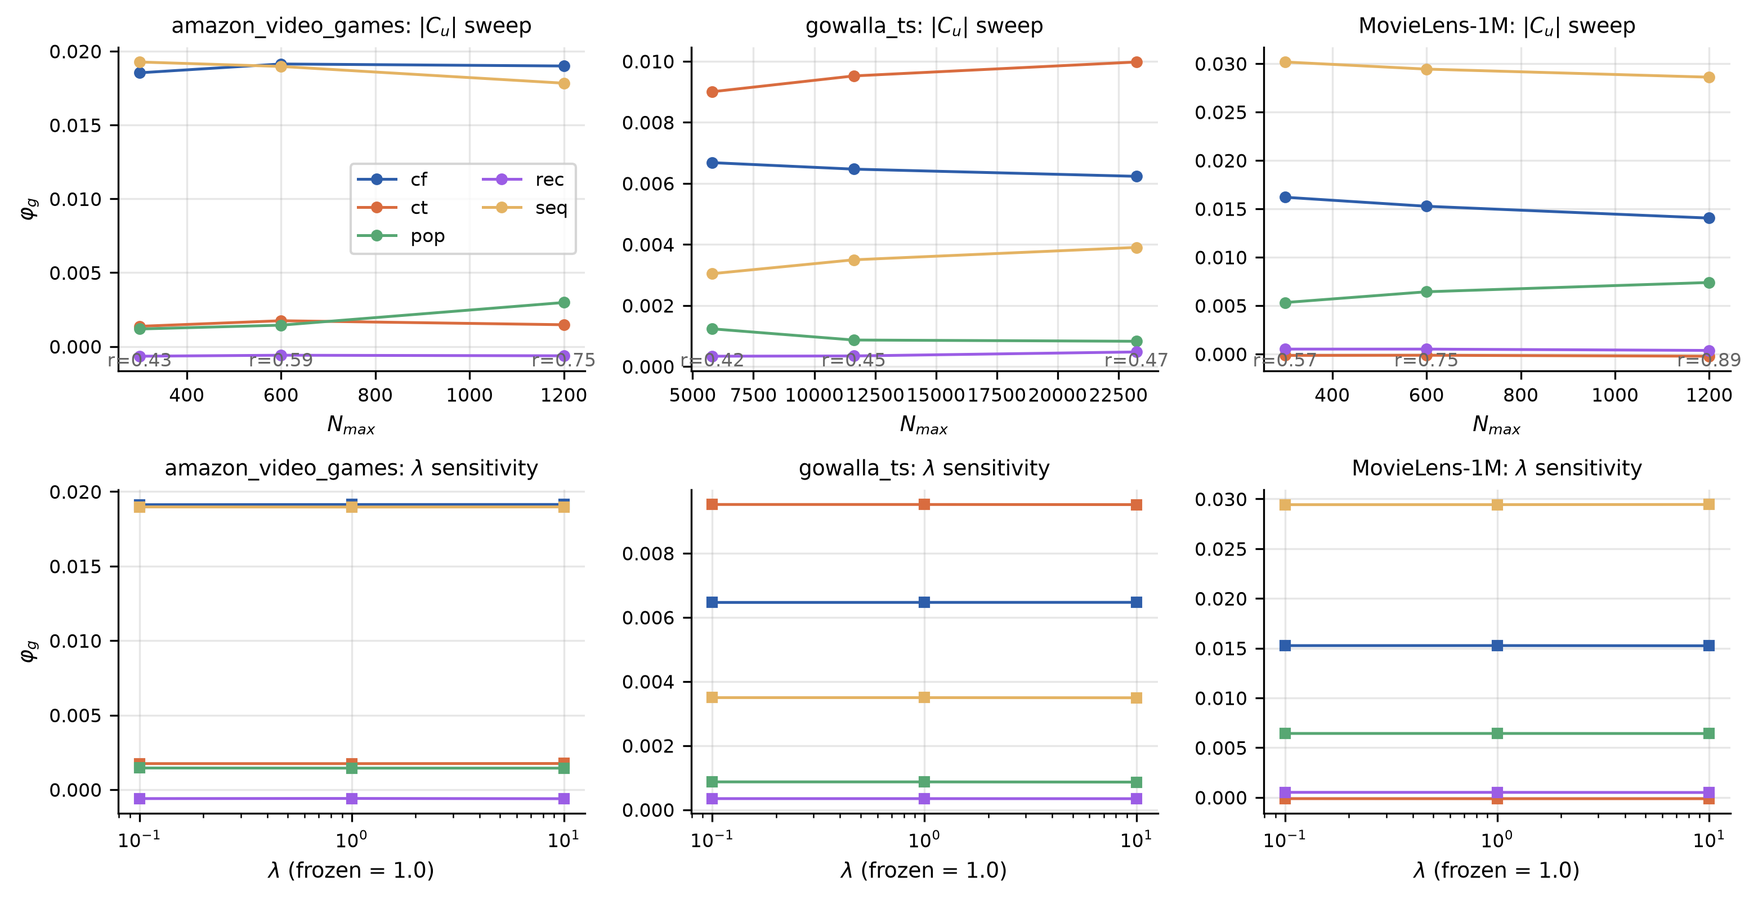
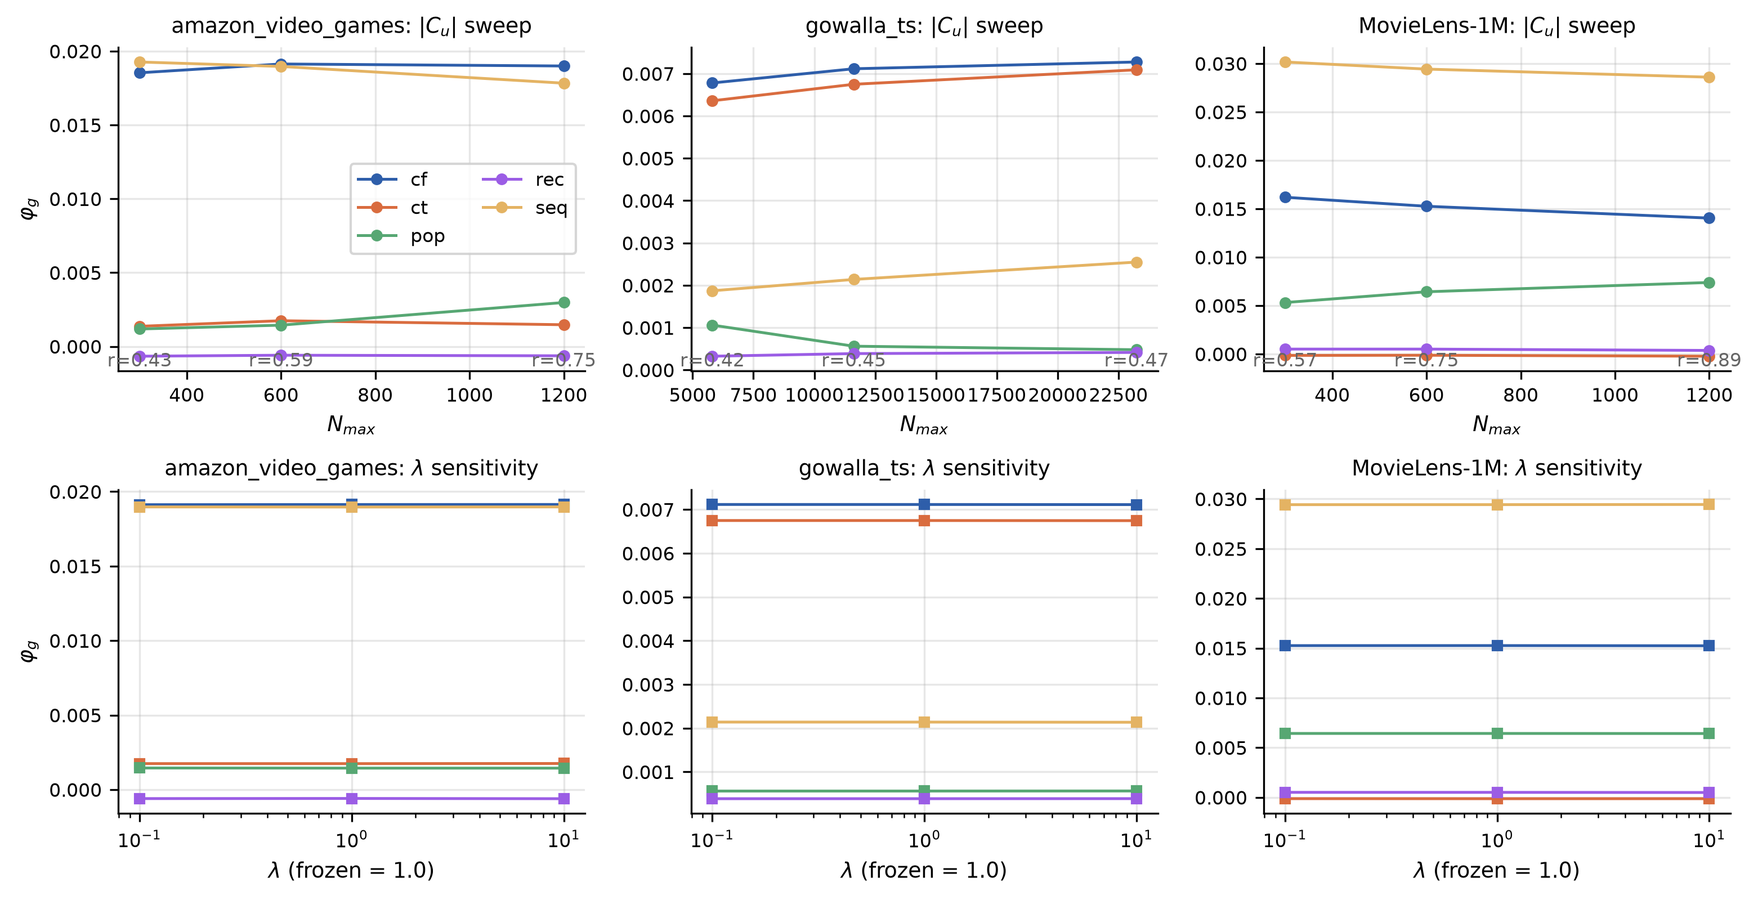
Gowalla at 8,865 users: the pop sign flip is stable under a 1.5x size change
Reran Gowalla at the 24 GB budget (8,865 x 82,134) to match the other corpora
and to test whether its material sign flip survives a corpus-size change.

It does. pop flips at BOTH subsample sizes and is the only material flip in
each: 9.9% of v(G) at 5,910 users, 12.2% at 8,865. A 1.5x change in corpus size
neither creates nor destroys it. Added as a robustness paragraph -- this is the
only within-corpus stability check the paper has for C3b, and it passes.

Everything downstream of the corpus size updated: Table 2 row (density 0.075%,
recall 0.450, monotonicity 6/13), density range back to 36x with 6.3x/5.7x
adjacent margins, recall-sweep figures, the unsampled-region bound (82,134),
the Table 3 Gowalla block, and the Gowalla ranking (cf > ct > seq > pop > rec).

Cross-corpus tau now 0.40 / 0.20 / 0.80, still none significant, still no
consistency claim.

v0 = 0.000126177 -- the deterministic baseline continues to hold; efficiency
exactly 0.0; no degenerate players.

C3b unchanged at two of three corpora: MovieLens cf (39.4%), Gowalla pop
(12.2%), Amazon-VG none material.

102 tests pass, both checkers clean, all six tabulars column-consistent.

diff --git a/paper/sn-article.tex b/paper/sn-article.tex
@@ -109,7 +109,7 @@ closed-form Shapley vectors reproduce exactly, duplicate injection recovers
 symmetry to numerical precision, and efficiency holds to
 $6.9\times10^{-18}$.
 
-Across three timestamped corpora spanning a $30\times$ density range, every
+Across three timestamped corpora spanning a $36\times$ density range, every
 system contains at least one source on which the two rules disagree in
 \emph{sign}, and which source diverges is corpus-specific. But in an end-to-end
 retirement simulation, leave-one-out predicts the true cost of removing a
@@ -712,7 +712,7 @@ asks whether Shapley \emph{recovers} known structure --- a validation of the
 estimator against a predeclared qualitative expectation.
 
 \paragraph{Corpora}
-Three real datasets spanning a $30\times$ density range
+Three real datasets spanning a $36\times$ density range
 (Table~\ref{tab:preconditions}): MovieLens-1M~\citep{harper2015movielens},
 Gowalla check-ins~\citep{cho2011friendship}, and the Video Games category of
 the Amazon Reviews corpus~\citep{hou2024bridging}. All three carry genuine
@@ -783,7 +783,7 @@ Corpus & Users & Items & Density & $N_{\max}$ & Recall & Monot. & Prop.~\ref{pro
 \midrule
 MovieLens-1M & 6\,038 & 3\,533  & $2.697\%$ & 600    & $0.748$ & $6$ / $17$ & no \\
 Amazon-VG    & 7\,120 & 3\,516  & $0.469\%$ & 600    & $0.588^{\dagger}$ & $4$ / $12$ & no \\
-Gowalla      & 5\,910 & 68\,443 & $0.089\%$ & 11\,623 & $0.453^{\dagger}$ & $6$ / $16$ & no \\
+Gowalla      & 8\,865 & 82\,134 & $0.075\%$ & 11\,623 & $0.450^{\dagger}$ & $6$ / $13$ & no \\
 \botrule
 \end{tabular}
 \smallskip
@@ -832,9 +832,9 @@ For Gowalla the situation is qualitatively different, and more interesting. We
 did raise $N_{\max}$, from $2\,500$ to $11\,623$ --- the first value was
 inherited from a differently sized split and amounted to only $3.65\%$ of this
 corpus's catalogue, against $17\%$ elsewhere, so the raise is justified by
-consistency rather than by outcome. Recall improved to $0.453$. The robustness
+consistency rather than by outcome. Recall improved to $0.450$. The robustness
 sweep then measured the curve directly:
-$N_{\max}=5\,811 \to 0.416$, $11\,623 \to 0.453$, $23\,246 \to 0.471$. Doubling
+$N_{\max}=5\,811 \to 0.418$, $11\,623 \to 0.450$, $23\,246 \to 0.471$. Doubling
 the pool buys $+0.021$.
 
 We are deliberately careful about what this does and does not establish. Recall
@@ -857,7 +857,7 @@ validity rather than impossibility: on a corpus this sparse, the candidate pool
 needed for a usable recall ceiling is a large fraction of the catalogue, and a
 practitioner should check that ratio before adopting a fixed-candidate game.
 Quantifying where that tradeoff becomes unacceptable, and whether recall rises
-fast enough in the unsampled region between $23\,246$ and $68\,443$ to change
+fast enough in the unsampled region between $23\,246$ and $82\,134$ to change
 the assessment, requires a full-catalogue sweep we have not run.
 
 
@@ -1115,11 +1115,11 @@ Amazon-VG    & $cf$  & $+0.00845$ & $+0.01913$ & $+0.01069$ & \\
              & $rec$ & $+0.00023$ & $-0.00059$ & $-0.00082$ & flip, negligible \\
              & $seq$ & $+0.00758$ & $+0.01897$ & $+0.01139$ & \\
 \midrule
-Gowalla      & $cf$  & $+0.00503$ & $+0.00647$ & $+0.00143$ & \\
-             & $ct$  & $+0.00925$ & $+0.00952$ & $+0.00027$ & \\
-             & $pop$ & $-0.00118$ & $+0.00087$ & $+0.00204$ & \textbf{flip, material} \\
-             & $rec$ & $-0.00005$ & $+0.00035$ & $+0.00039$ & flip, negligible \\
-             & $seq$ & $+0.00393$ & $+0.00350$ & $-0.00043$ & \\
+Gowalla      & $cf$  & $+0.00729$ & $+0.00712$ & $-0.00017$ & \\
+             & $ct$  & $+0.00528$ & $+0.00675$ & $+0.00147$ & \\
+             & $pop$ & $-0.00151$ & $+0.00056$ & $+0.00207$ & \textbf{flip, material} \\
+             & $rec$ & $+0.00001$ & $+0.00039$ & $+0.00038$ & \\
+             & $seq$ & $+0.00070$ & $+0.00214$ & $+0.00144$ & \\
 \botrule
 \end{tabular}
 \end{table}
@@ -1143,7 +1143,7 @@ where the gap exceeds $10^{-3}$, the same threshold we apply to monotonicity.
 On MovieLens it is $cf$: Shapley scores it $+0.01526$, the second most valuable
 source in the system, where ablation scores it $-0.00501$ and marks it as worth
 removing. The gap is $0.0203$, or $39\%$ of $v(\G)$. On Gowalla it is $pop$, at
-$9.9\%$ of $v(\G)$: ablation scores the popularity signal negative where
+$12.2\%$ of $v(\G)$: ablation scores the popularity signal negative where
 Shapley scores it positive.
 
 Amazon-VG has no material disagreement. Its only sign flip, on $rec$, is
@@ -1154,6 +1154,13 @@ empty-coalition baseline (Section~\ref{sec:threats}) that claim no longer
 holds. The honest statement is weaker: material sign disagreement between the
 two rules occurs on some but not all systems, it is not rare, and nothing in
 either rule announces in advance whether a given system will exhibit it.
+
+One robustness check is available for the Gowalla result. That corpus was run
+at two subsample sizes, $5\,910$ and $8\,865$ users, drawn to different memory
+budgets. The material $pop$ disagreement is present at both, at $9.9\%$ and
+$12.2\%$ of $v(\G)$ respectively, and $pop$ is the only material flip in each
+case. A $1.5\times$ change in corpus size therefore does not create or destroy
+it. We report the larger run throughout.
 
 The corollary is that a single-corpus reading would have been actively
 misleading. On MovieLens alone one would conclude that collaborative filtering
@@ -1180,9 +1187,9 @@ a geographic content signal strong enough to rank second overall.
 The per-corpus orderings are
 $seq \succ cf \succ pop \succ rec \succ ct$ (MovieLens),
 $cf \succ seq \succ ct \succ pop \succ rec$ (Amazon-VG), and
-$ct \succ cf \succ seq \succ pop \succ rec$ (Gowalla). Pairwise Kendall $\tau$
-between corpora is $0.40$ (MovieLens--Amazon), $0.00$ (MovieLens--Gowalla) and
-$0.60$ (Amazon--Gowalla), none significant at $n=5$ sources. We therefore make no cross-corpus consistency claim. An earlier
+$cf \succ ct \succ seq \succ pop \succ rec$ (Gowalla). Pairwise Kendall $\tau$
+between corpora is $0.40$ (MovieLens--Amazon), $0.20$ (MovieLens--Gowalla) and
+$0.80$ (Amazon--Gowalla), none significant at $n=5$ sources. We therefore make no cross-corpus consistency claim. An earlier
 version of this analysis reported $\tau$ between $0.60$ and $0.80$; that
 apparent agreement was an artefact of $ct$ and $rec$ having received no input
 on two corpora, which gave them identical near-zero values that agreed
@@ -1421,9 +1428,9 @@ as reference points under our protocol rather than as their attainable best.
 One subsample per corpus, drawn to fit a memory budget, means cross-corpus
 results may be sample-specific. The three corpora vary in density, catalogue
 size, metadata provenance, and sampling simultaneously, so this is not a
-controlled density comparison; the density ordering is clean --- $0.089\%$,
-$0.469\%$, $2.697\%$, a $30\times$ spread with no adjacent pair closer than
-$5.3\times$ --- but the corpora are not otherwise matched, and we do not
+controlled density comparison; the density ordering is clean --- $0.075\%$,
+$0.469\%$, $2.697\%$, a $36\times$ spread with no adjacent pair closer than
+$5.7\times$ --- but the corpora are not otherwise matched, and we do not
 attribute the differences between them to density alone.
 
 \section{Conclusion}\label{sec:conclusion}

diff --git a/artefacts/tables/T6_loo_vs_shapley.tex b/artefacts/tables/T6_loo_vs_shapley.tex
@@ -12,11 +12,11 @@ amazon\_video\_games & ct & 0.00002 & 0.00174 & 0.00178 & [0.00168, 0.00188] & 0
 amazon\_video\_games & pop & 0.00308 & 0.00144 & 0.00161 & [0.00151, 0.00171] & -0.00164 & 0.0003 \\
 amazon\_video\_games & rec & 0.00023 & -0.00059 & -0.00066 & [-0.00069, -0.00062] & -0.00082 & 0.0001 \\
 amazon\_video\_games & seq & 0.00758 & 0.01897 & 0.01866 & [0.01850, 0.01883] & 0.01139 & 0.0001 \\
-gowalla\_ts & cf & 0.00503 & 0.00647 & 0.00639 & [0.00628, 0.00651] & 0.00143 & 0.1379 \\
-gowalla\_ts & ct & 0.00925 & 0.00952 & 0.00956 & [0.00948, 0.00965] & 0.00027 & 0.7957 \\
-gowalla\_ts & pop & -0.00118 & 0.00087 & 0.00090 & [0.00082, 0.00098] & 0.00204 & 0.0001 \\
-gowalla\_ts & rec & -0.00005 & 0.00035 & 0.00037 & [0.00031, 0.00044] & 0.00039 & 0.0015 \\
-gowalla\_ts & seq & 0.00393 & 0.00350 & 0.00355 & [0.00349, 0.00361] & -0.00043 & 0.2535 \\
+gowalla\_ts & cf & 0.00729 & 0.00712 & 0.00725 & [0.00704, 0.00746] & -0.00017 & 0.8302 \\
+gowalla\_ts & ct & 0.00528 & 0.00675 & 0.00674 & [0.00664, 0.00683] & 0.00147 & 0.0350 \\
+gowalla\_ts & pop & -0.00151 & 0.00056 & 0.00050 & [0.00042, 0.00057] & 0.00207 & 0.0001 \\
+gowalla\_ts & rec & 0.00001 & 0.00039 & 0.00040 & [0.00038, 0.00042] & 0.00038 & 0.0001 \\
+gowalla\_ts & seq & 0.00070 & 0.00214 & 0.00227 & [0.00214, 0.00241] & 0.00144 & 0.0001 \\
 MovieLens-1M & cf & -0.00501 & 0.01526 & 0.01564 & [0.01525, 0.01603] & 0.02027 & 0.0001 \\
 MovieLens-1M & ct & 0.00083 & -0.00013 & -0.00015 & [-0.00018, -0.00013] & -0.00096 & 0.0005 \\
 MovieLens-1M & pop & 0.00098 & 0.00643 & 0.00642 & [0.00633, 0.00651] & 0.00545 & 0.0001 \\

diff --git a/artefacts/tables/T7_fuse_significance.tex b/artefacts/tables/T7_fuse_significance.tex
@@ -12,11 +12,11 @@ amazon\_video\_games & global & +0.00035 & 5686.5 & 0.0188 & 0.0188 & +0.014 \\
 amazon\_video\_games & popularity\_reference & +0.04358 & 15979.0 & 0.0000 & 0.0000 & +0.250 \\
 amazon\_video\_games & lightgcn & +0.01483 & 97793.0 & 0.0000 & 0.0000 & +0.096 \\
 amazon\_video\_games & sasrec & +0.03487 & 44788.5 & 0.0000 & 0.0000 & +0.199 \\
-gowalla\_ts & uniform & +0.00433 & 10229.0 & 0.0001 & 0.0002 & +0.051 \\
-gowalla\_ts & global & +0.00000 & 0.0 & 1.0000 & 1.0000 & +0.000 \\
-gowalla\_ts & popularity\_reference & +0.01775 & 3095.0 & 0.0000 & 0.0000 & +0.158 \\
-gowalla\_ts & lightgcn & +0.00967 & 12084.5 & 0.0000 & 0.0000 & +0.083 \\
-gowalla\_ts & sasrec & +0.01876 & 2583.5 & 0.0000 & 0.0000 & +0.162 \\
+gowalla\_ts & uniform & +0.00079 & 11217.5 & 0.0146 & 0.0293 & +0.018 \\
+gowalla\_ts & global & +0.00009 & 521.5 & 0.4946 & 0.4946 & +0.007 \\
+gowalla\_ts & popularity\_reference & +0.01387 & 5783.0 & 0.0000 & 0.0000 & +0.142 \\
+gowalla\_ts & lightgcn & +0.00412 & 27313.0 & 0.0001 & 0.0002 & +0.043 \\
+gowalla\_ts & sasrec & +0.01411 & 6363.0 & 0.0000 & 0.0000 & +0.137 \\
 ml\_1m & uniform & +0.01114 & 114382.0 & 0.0000 & 0.0000 & +0.092 \\
 ml\_1m & global & -0.00005 & 5000.5 & 0.9918 & 0.9918 & -0.003 \\
 ml\_1m & popularity\_reference & +0.04553 & 78179.0 & 0.0000 & 0.0000 & +0.233 \\

diff --git a/artefacts/tables/T8_robustness.tex b/artefacts/tables/T8_robustness.tex
@@ -16,14 +16,14 @@ amazon\_video\_games & $\lambda$ = 10.0 & -- & cf & -- \\
 amazon\_video\_games & rescale: identity & -- & cf & -- \\
 amazon\_video\_games & rescale: log1p & -- & cf & -- \\
 amazon\_video\_games & rescale: rank & -- & seq & -- \\
-gowalla\_ts & $|C_u|$ = 5811 & 0.416 & ct & 0.02029 \\
-gowalla\_ts & $|C_u|$ = 11623 & 0.453 & ct & 0.02069 \\
-gowalla\_ts & $|C_u|$ = 23246 & 0.471 & ct & 0.02141 \\
-gowalla\_ts & $\lambda$ = 0.1 & -- & ct & -- \\
-gowalla\_ts & $\lambda$ = 1.0 & -- & ct & -- \\
-gowalla\_ts & $\lambda$ = 10.0 & -- & ct & -- \\
-gowalla\_ts & rescale: identity & -- & ct & -- \\
-gowalla\_ts & rescale: log1p & -- & ct & -- \\
+gowalla\_ts & $|C_u|$ = 5811 & 0.417 & cf & 0.01640 \\
+gowalla\_ts & $|C_u|$ = 11623 & 0.450 & cf & 0.01695 \\
+gowalla\_ts & $|C_u|$ = 23246 & 0.471 & cf & 0.01781 \\
+gowalla\_ts & $\lambda$ = 0.1 & -- & cf & -- \\
+gowalla\_ts & $\lambda$ = 1.0 & -- & cf & -- \\
+gowalla\_ts & $\lambda$ = 10.0 & -- & cf & -- \\
+gowalla\_ts & rescale: identity & -- & cf & -- \\
+gowalla\_ts & rescale: log1p & -- & cf & -- \\
 gowalla\_ts & rescale: rank & -- & ct & -- \\
 ml\_1m & $|C_u|$ = 300 & 0.566 & seq & 0.05203 \\
 ml\_1m & $|C_u|$ = 600 & 0.748 & seq & 0.05150 \\

diff --git a/artefacts/tables/T5_main_results.tex b/artefacts/tables/T5_main_results.tex
@@ -11,10 +11,10 @@ amazon\_video\_games & Uniform fusion & 0.0435 & 0.1305 & 0.0322 \\
 amazon\_video\_games & Globally-tuned fusion & 0.0493 & 0.1372 & 0.0364 \\
 amazon\_video\_games & Popularity (full-catalog ref.) & 0.0061 & 0.0351 & 0.0040 \\
 amazon\_video\_games & SignalShap-Fuse & 0.0497 & 0.1372 & 0.0367 \\
-gowalla\_ts & Uniform fusion & 0.0166 & 0.0538 & 0.0114 \\
-gowalla\_ts & Globally-tuned fusion & 0.0209 & 0.0582 & 0.0151 \\
-gowalla\_ts & Popularity (full-catalog ref.) & 0.0031 & 0.0096 & 0.0020 \\
-gowalla\_ts & SignalShap-Fuse & 0.0209 & 0.0582 & 0.0151 \\
+gowalla\_ts & Uniform fusion & 0.0165 & 0.0525 & 0.0113 \\
+gowalla\_ts & Globally-tuned fusion & 0.0172 & 0.0537 & 0.0119 \\
+gowalla\_ts & Popularity (full-catalog ref.) & 0.0034 & 0.0124 & 0.0021 \\
+gowalla\_ts & SignalShap-Fuse & 0.0173 & 0.0536 & 0.0119 \\
 ml\_1m & Uniform fusion & 0.0527 & 0.1790 & 0.0365 \\
 ml\_1m & Globally-tuned fusion & 0.0639 & 0.2103 & 0.0440 \\
 ml\_1m & Popularity (full-catalog ref.) & 0.0183 & 0.0729 & 0.0119 \\

diff --git a/artefacts/tables/T2_datasets.tex b/artefacts/tables/T2_datasets.tex
@@ -8,7 +8,7 @@
 Dataset & Users & Items & Interactions & Density (as used) & $N_{max}$ & $|C_u|$ mean\,$\pm$\,std & Candidate recall & Gate ($\geq$0.60) & Monot. violations & Prop. 2 applicable \\
 \midrule
 amazon\_video\_games & 7120 & 3516 & 117468 & 0.4692\% & 600 & 600.0$\pm$0.1 & 0.588 & FAIL & 12/80 & no \\
-gowalla\_ts & 5910 & 68443 & 360121 & 0.0890\% & 11623 & 11620.8$\pm$7.7 & 0.453 & FAIL & 16/80 & no \\
+gowalla\_ts & 8865 & 82134 & 542970 & 0.0746\% & 11623 & 11619.3$\pm$10.4 & 0.450 & FAIL & 13/80 & no \\
 MovieLens-1M & 6038 & 3533 & 575276 & 2.6967\% & 600 & 600.0$\pm$0.1 & 0.748 & PASS & 17/80 & no \\
 \bottomrule
 \end{tabular}

diff --git a/artefacts/tables/T9_efficiency.tex b/artefacts/tables/T9_efficiency.tex
@@ -8,7 +8,7 @@
 Dataset & $\sum_g \varphi_g$ & $v(\mathcal{G})$ & $|$error$|$ & Passes & Sum of rounded $\varphi_g$ & Rounded $v(\mathcal{G})$ & Display-rounding artefact \\
 \midrule
 amazon\_video\_games & 0.040693694237126869 & 0.040693694237126869 & 0.0e+00 & yes & 0.04069 & 0.04069 & no \\
-gowalla\_ts & 0.020693170806121052 & 0.020693170806121052 & 0.0e+00 & yes & 0.02071 & 0.02069 & yes \\
+gowalla\_ts & 0.016952655388916882 & 0.016952655388916882 & 0.0e+00 & yes & 0.01696 & 0.01695 & yes \\
 MovieLens-1M & 0.051495479053546303 & 0.05149547905354631 & 6.9e-18 & yes & 0.05150 & 0.05150 & no \\
 \bottomrule
 \end{tabular}

diff --git a/artefacts/tables/T4_cost.tex b/artefacts/tables/T4_cost.tex
@@ -8,7 +8,7 @@
 Dataset & Scorers (train once, s) & Candidates (s) & 32 coalitions (s) & Total (s) \\
 \midrule
 amazon\_video\_games & 4.92 & 6.65 & 11.61 & 75.20 \\
-gowalla\_ts & 34.09 & 256.30 & 227.48 & 661.79 \\
+gowalla\_ts & 46.04 & 358.81 & 335.03 & 980.43 \\
 ml\_1m & 16.53 & 8.22 & 16.74 & 195.24 \\
 \bottomrule
 \end{tabular}

diff --git a/artefacts/tables/T6_loo_vs_shapley.md b/artefacts/tables/T6_loo_vs_shapley.md
@@ -7,11 +7,11 @@
 | amazon_video_games | pop      |         0.00308 |             0.00144 |               0.00161 | [0.00151, 0.00171]   |        -0.00164 |      0.0003 |
 | amazon_video_games | rec      |         0.00023 |            -0.00059 |              -0.00066 | [-0.00069, -0.00062] |        -0.00082 |      0.0001 |
 | amazon_video_games | seq      |         0.00758 |             0.01897 |               0.01866 | [0.01850, 0.01883]   |         0.01139 |      0.0001 |
-| gowalla_ts         | cf       |         0.00503 |             0.00647 |               0.00639 | [0.00628, 0.00651]   |         0.00143 |      0.1379 |
-| gowalla_ts         | ct       |         0.00925 |             0.00952 |               0.00956 | [0.00948, 0.00965]   |         0.00027 |      0.7957 |
-| gowalla_ts         | pop      |        -0.00118 |             0.00087 |               0.0009  | [0.00082, 0.00098]   |         0.00204 |      0.0001 |
-| gowalla_ts         | rec      |        -5e-05   |             0.00035 |               0.00037 | [0.00031, 0.00044]   |         0.00039 |      0.0015 |
-| gowalla_ts         | seq      |         0.00393 |             0.0035  |               0.00355 | [0.00349, 0.00361]   |        -0.00043 |      0.2535 |
+| gowalla_ts         | cf       |         0.00729 |             0.00712 |               0.00725 | [0.00704, 0.00746]   |        -0.00017 |      0.8302 |
+| gowalla_ts         | ct       |         0.00528 |             0.00675 |               0.00674 | [0.00664, 0.00683]   |         0.00147 |      0.035  |
+| gowalla_ts         | pop      |        -0.00151 |             0.00056 |               0.0005  | [0.00042, 0.00057]   |         0.00207 |      0.0001 |
+| gowalla_ts         | rec      |         1e-05   |             0.00039 |               0.0004  | [0.00038, 0.00042]   |         0.00038 |      0.0001 |
+| gowalla_ts         | seq      |         0.0007  |             0.00214 |               0.00227 | [0.00214, 0.00241]   |         0.00144 |      0.0001 |
 | MovieLens-1M       | cf       |        -0.00501 |             0.01526 |               0.01564 | [0.01525, 0.01603]   |         0.02027 |      0.0001 |
 | MovieLens-1M       | ct       |         0.00083 |            -0.00013 |              -0.00015 | [-0.00018, -0.00013] |        -0.00096 |      0.0005 |
 | MovieLens-1M       | pop      |         0.00098 |             0.00643 |               0.00642 | [0.00633, 0.00651]   |         0.00545 |      0.0001 |

diff --git a/artefacts/tables/T8_robustness.md b/artefacts/tables/T8_robustness.md
@@ -11,14 +11,14 @@
 | amazon_video_games | rescale: identity | —                  | cf           | —                  |
 | amazon_video_games | rescale: log1p    | —                  | cf           | —                  |
 | amazon_video_games | rescale: rank     | —                  | seq          | —                  |
-| gowalla_ts         | $|C_u|$ = 5811    | 0.416              | ct           | 0.02029            |
-| gowalla_ts         | $|C_u|$ = 11623   | 0.453              | ct           | 0.02069            |
-| gowalla_ts         | $|C_u|$ = 23246   | 0.471              | ct           | 0.02141            |
-| gowalla_ts         | $\lambda$ = 0.1   | —                  | ct           | —                  |
-| gowalla_ts         | $\lambda$ = 1.0   | —                  | ct           | —                  |
-| gowalla_ts         | $\lambda$ = 10.0  | —                  | ct           | —                  |
-| gowalla_ts         | rescale: identity | —                  | ct           | —                  |
-| gowalla_ts         | rescale: log1p    | —                  | ct           | —                  |
+| gowalla_ts         | $|C_u|$ = 5811    | 0.417              | cf           | 0.01640            |
+| gowalla_ts         | $|C_u|$ = 11623   | 0.450              | cf           | 0.01695            |
+| gowalla_ts         | $|C_u|$ = 23246   | 0.471              | cf           | 0.01781            |
+| gowalla_ts         | $\lambda$ = 0.1   | —                  | cf           | —                  |
+| gowalla_ts         | $\lambda$ = 1.0   | —                  | cf           | —                  |
+| gowalla_ts         | $\lambda$ = 10.0  | —                  | cf           | —                  |
+| gowalla_ts         | rescale: identity | —                  | cf           | —                  |
+| gowalla_ts         | rescale: log1p    | —                  | cf           | —                  |
 | gowalla_ts         | rescale: rank     | —                  | ct           | —                  |
 | ml_1m              | $|C_u|$ = 300     | 0.566              | seq          | 0.05203            |
 | ml_1m              | $|C_u|$ = 600     | 0.748              | seq          | 0.05150            |

diff --git a/artefacts/tables/T7_fuse_significance.md b/artefacts/tables/T7_fuse_significance.md
@@ -7,11 +7,11 @@
 | amazon_video_games | popularity_reference |         0.04358 |        15979   |    0      |     0      |           0.25  |
 | amazon_video_games | lightgcn             |         0.01483 |        97793   |    0      |     0      |           0.096 |
 | amazon_video_games | sasrec               |         0.03487 |        44788.5 |    0      |     0      |           0.199 |
-| gowalla_ts         | uniform              |         0.00433 |        10229   |    0.0001 |     0.0002 |           0.051 |
-| gowalla_ts         | global               |         0       |            0   |    1      |     1      |           0     |
-| gowalla_ts         | popularity_reference |         0.01775 |         3095   |    0      |     0      |           0.158 |
-| gowalla_ts         | lightgcn             |         0.00967 |        12084.5 |    0      |     0      |           0.083 |
-| gowalla_ts         | sasrec               |         0.01876 |         2583.5 |    0      |     0      |           0.162 |
+| gowalla_ts         | uniform              |         0.00079 |        11217.5 |    0.0146 |     0.0293 |           0.018 |
+| gowalla_ts         | global               |         9e-05   |          521.5 |    0.4946 |     0.4946 |           0.007 |
+| gowalla_ts         | popularity_reference |         0.01387 |         5783   |    0      |     0      |           0.142 |
+| gowalla_ts         | lightgcn             |         0.00412 |        27313   |    0.0001 |     0.0002 |           0.043 |
+| gowalla_ts         | sasrec               |         0.01411 |         6363   |    0      |     0      |           0.137 |
 | ml_1m              | uniform              |         0.01114 |       114382   |    0      |     0      |           0.092 |
 | ml_1m              | global               |        -5e-05   |         5000.5 |    0.9918 |     0.9918 |          -0.003 |
 | ml_1m              | popularity_reference |         0.04553 |        78179   |    0      |     0      |           0.233 |

diff --git a/artefacts/tables/T5_main_results.md b/artefacts/tables/T5_main_results.md
@@ -6,10 +6,10 @@
 | amazon_video_games | Globally-tuned fusion          |    0.0493 |      0.1372 |   0.0364 |
 | amazon_video_games | Popularity (full-catalog ref.) |    0.0061 |      0.0351 |   0.004  |
 | amazon_video_games | SignalShap-Fuse                |    0.0497 |      0.1372 |   0.0367 |
-| gowalla_ts         | Uniform fusion                 |    0.0166 |      0.0538 |   0.0114 |
-| gowalla_ts         | Globally-tuned fusion          |    0.0209 |      0.0582 |   0.0151 |
-| gowalla_ts         | Popularity (full-catalog ref.) |    0.0031 |      0.0096 |   0.002  |
-| gowalla_ts         | SignalShap-Fuse                |    0.0209 |      0.0582 |   0.0151 |
+| gowalla_ts         | Uniform fusion                 |    0.0165 |      0.0525 |   0.0113 |
+| gowalla_ts         | Globally-tuned fusion          |    0.0172 |      0.0537 |   0.0119 |
+| gowalla_ts         | Popularity (full-catalog ref.) |    0.0034 |      0.0124 |   0.0021 |
+| gowalla_ts         | SignalShap-Fuse                |    0.0173 |      0.0536 |   0.0119 |
 | ml_1m              | Uniform fusion                 |    0.0527 |      0.179  |   0.0365 |
 | ml_1m              | Globally-tuned fusion          |    0.0639 |      0.2103 |   0.044  |
 | ml_1m              | Popularity (full-catalog ref.) |    0.0183 |      0.0729 |   0.0119 |
